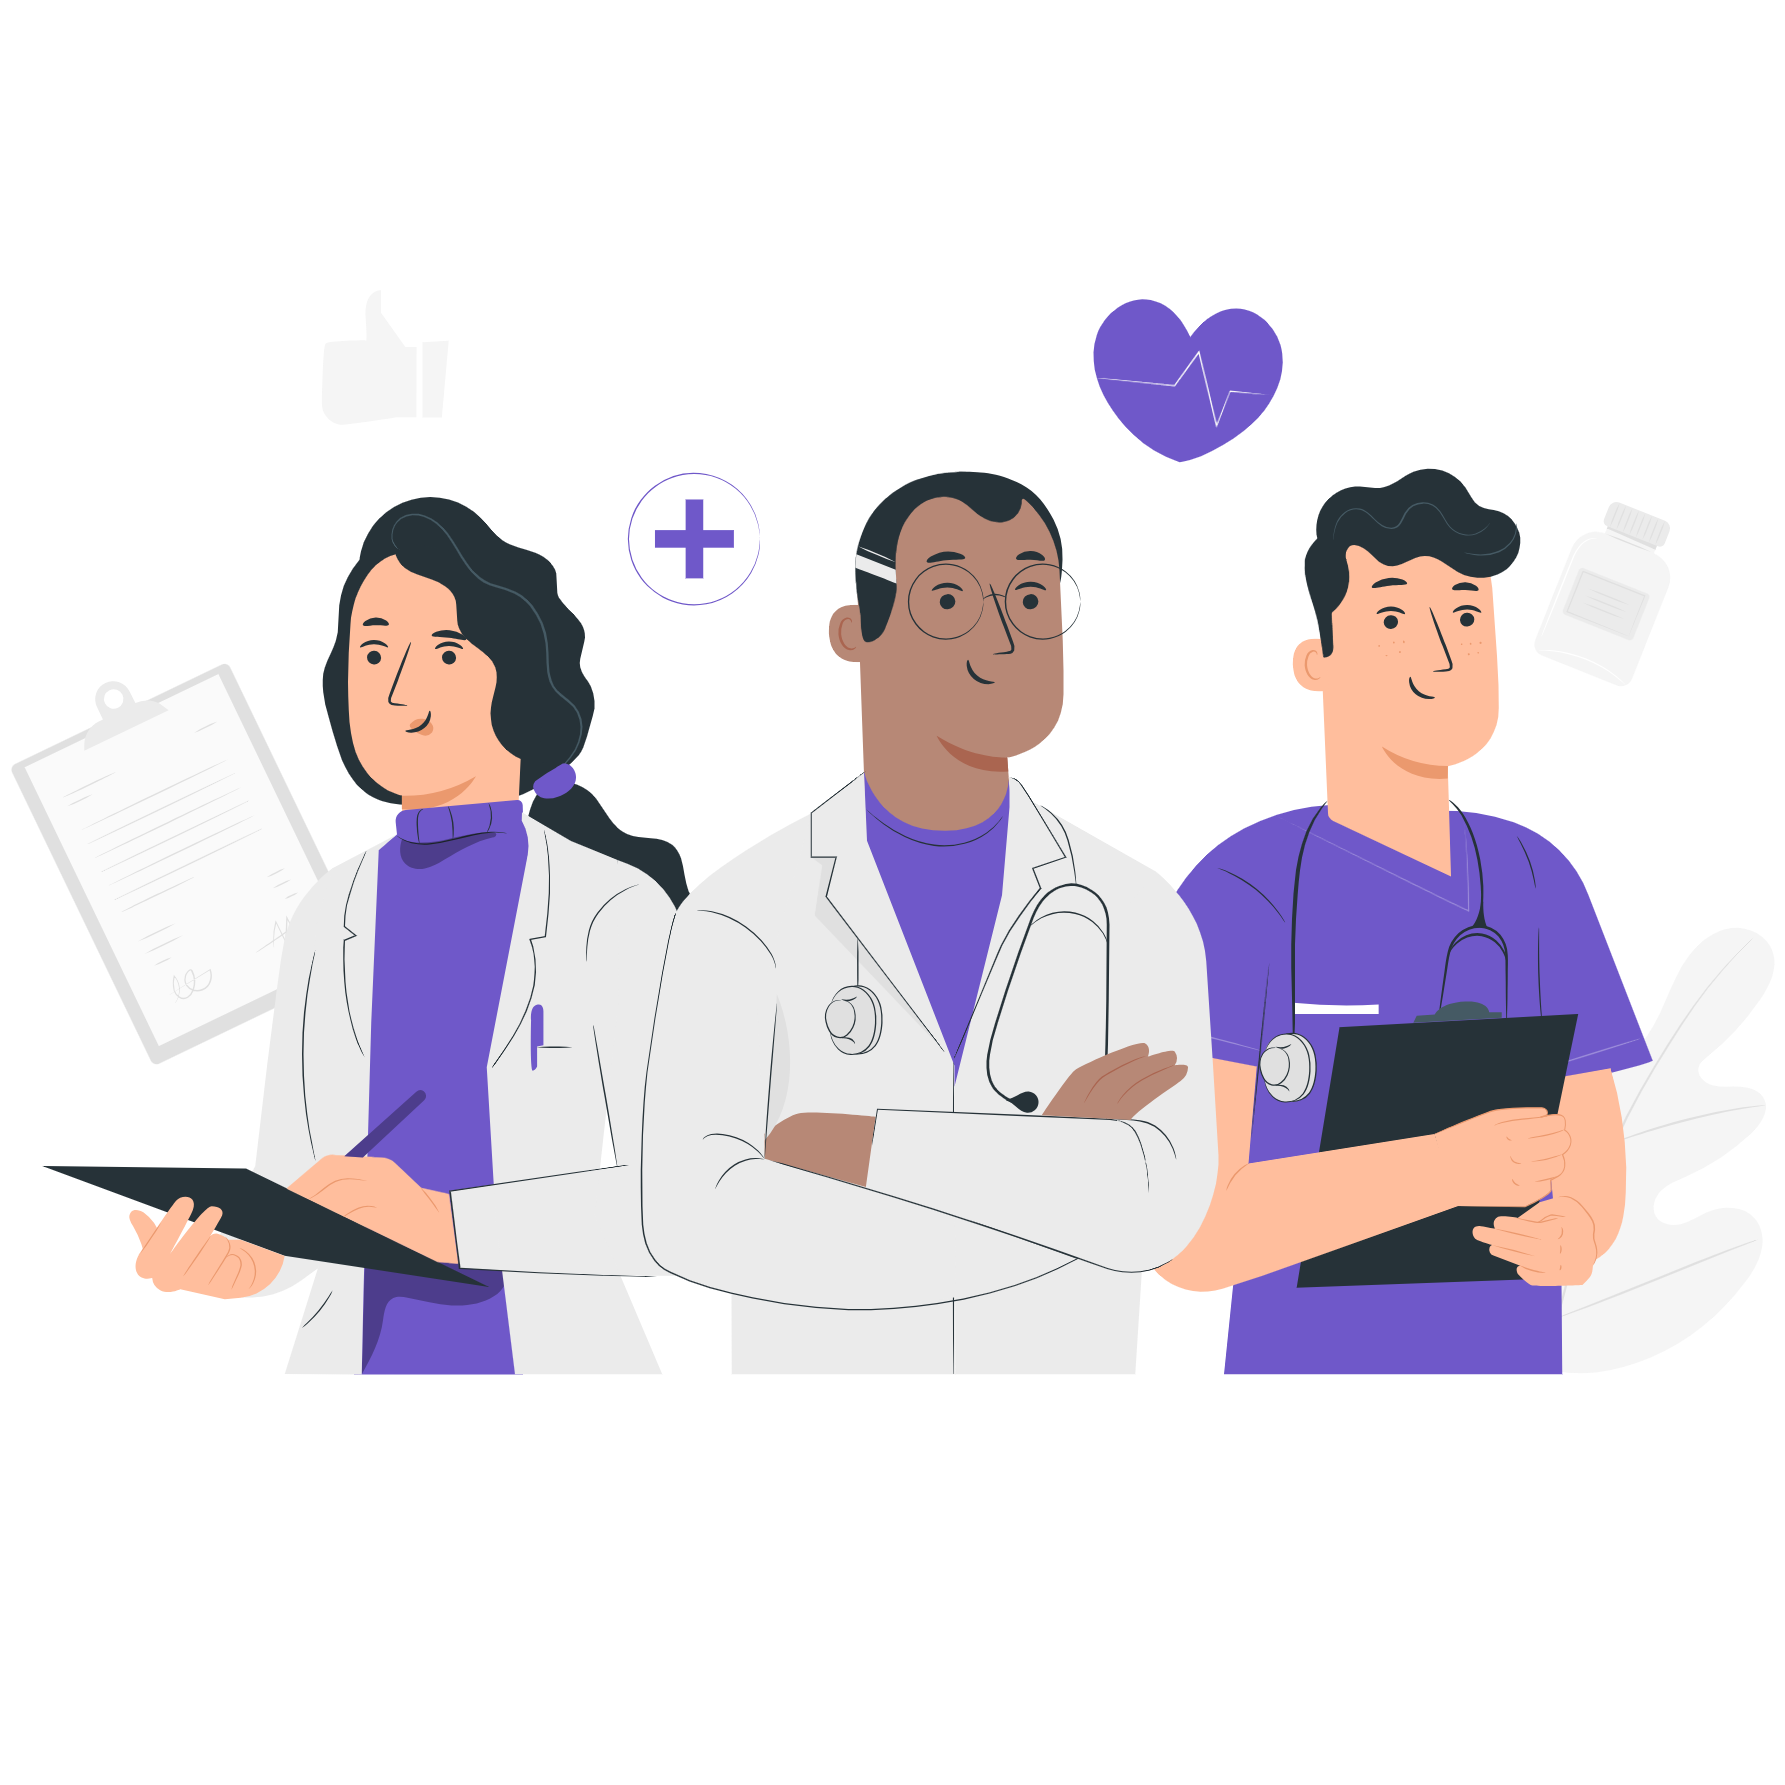
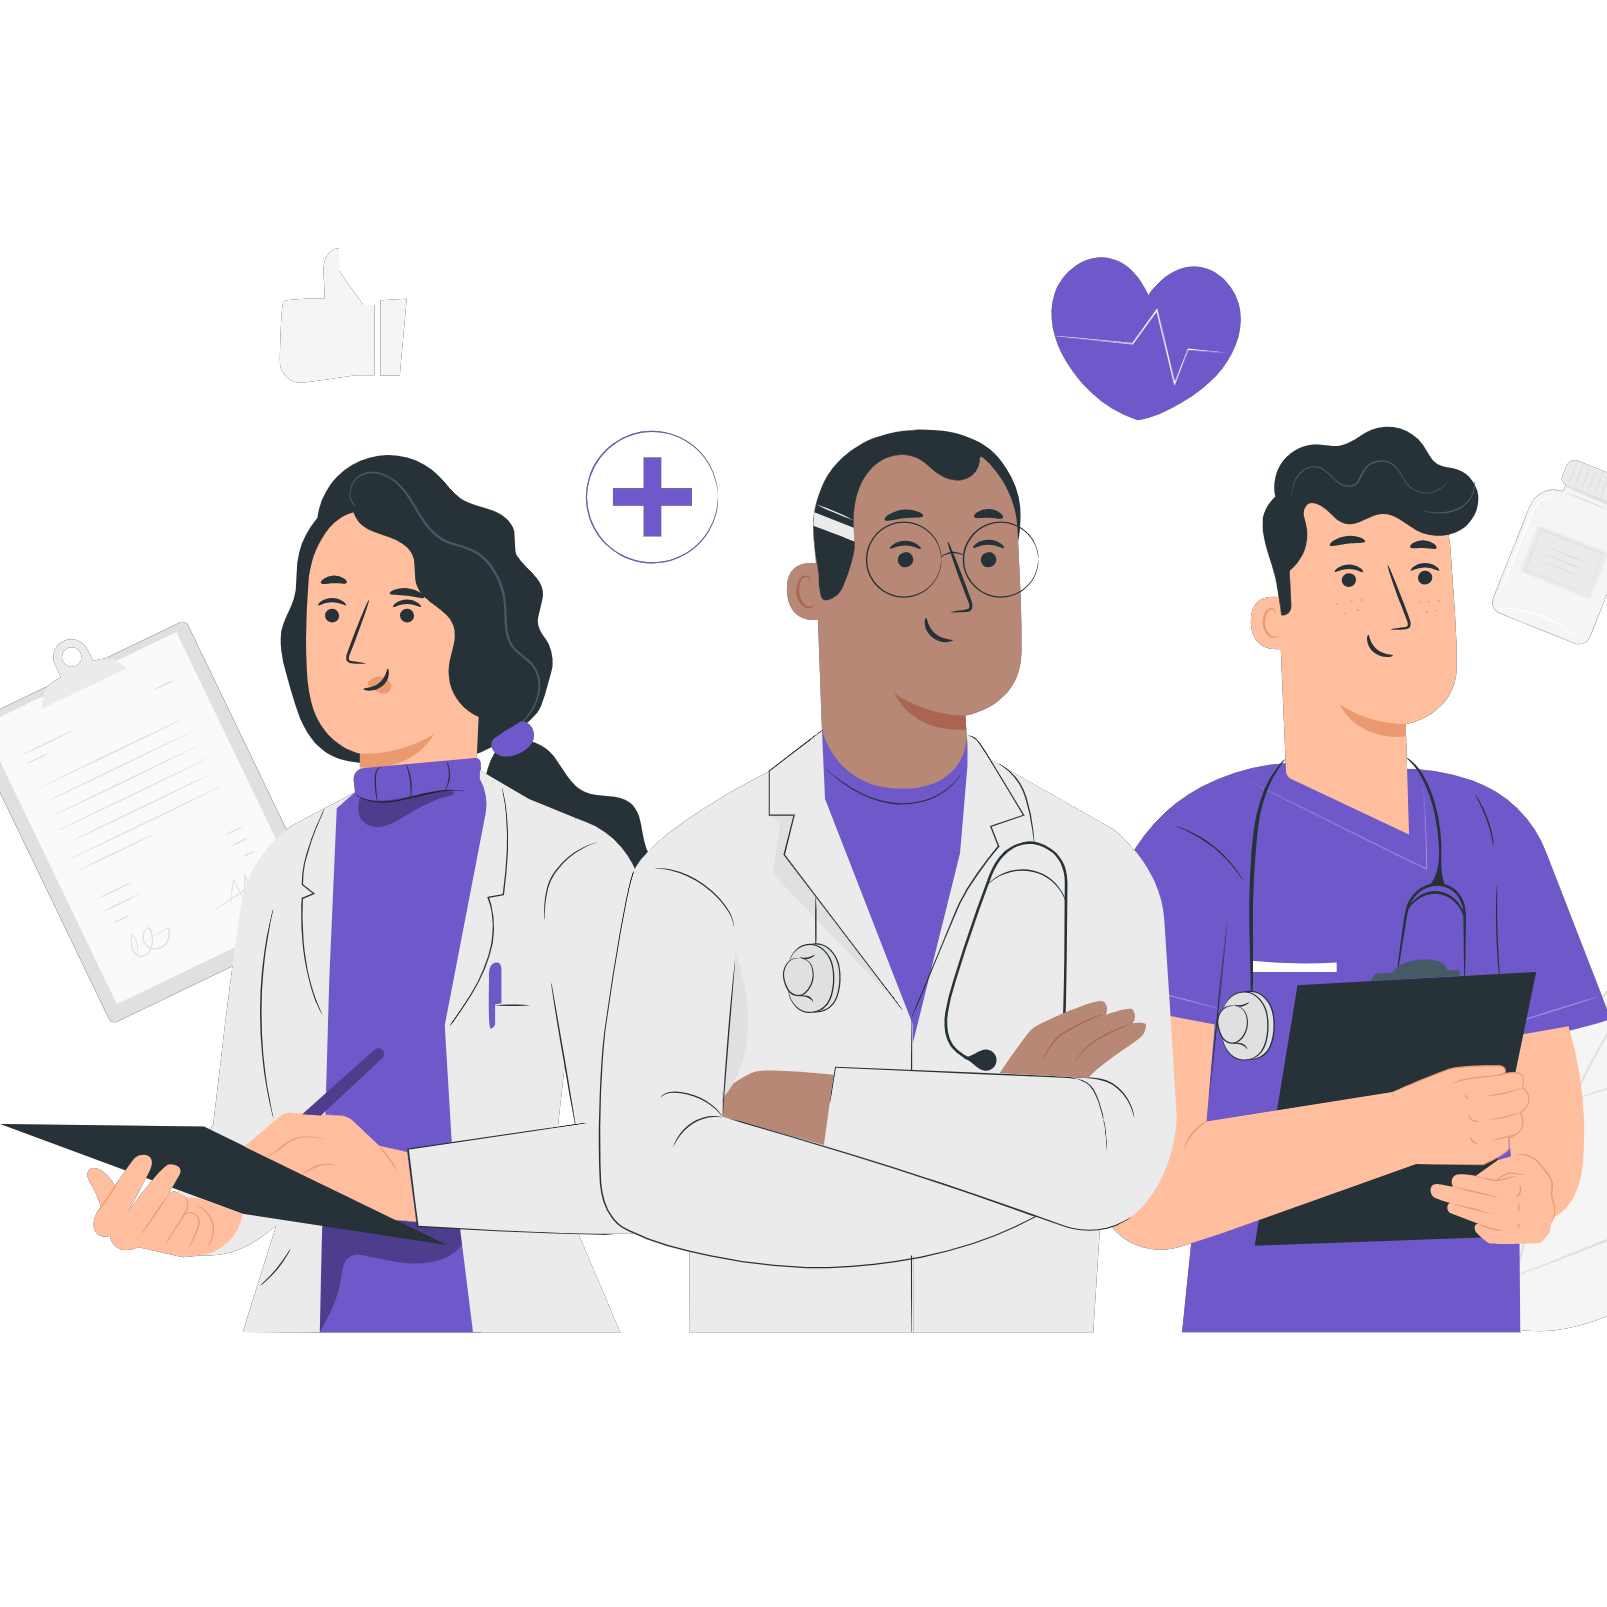
feat: home com header certo

diff --git a/resources/views/home.blade.php b/resources/views/home.blade.php
@@ -23,14 +23,12 @@
     </head>
 <body class=" bg-purple-50">
     @include('layouts.header')
-    <main class="px-20">
+    <main class="px-20 py-12">
         <section class="grid grid-cols-2 items-center pb-6">
-            <div>
-            <img class="mx-auto" src="doctorsHome.png" alt="Doutor e enfermeiros">
-            </div>
+            <img class="w-11/12 place-self-center m-0" src="doctorsHome.png" alt="Doutor e enfermeiros">
             <div class="text-left flex flex-col gap-12" >
                 <h1 class="text-6xl">Otimize sua consulta com a nossa plataforma</h1>
-                <p>Lorem ipsum dolor sit amet consectetur adipisicing elit. Corrupti hic quaerat totam ipsum veniam delectus omnis quos obcaecati, quae atque quam adipisci earum mollitia. Voluptas mollitia laudantium amet modi eius.</p>
+                <p>A aplicação do software em ambientes profissionais possibilita que haja um melhor atendimento das necessidades do paciente, promovendo consultas mais precisas e com maior acompanhamento do mesmo, evitando que dados importantes não sejam registrados.</p>
                 <div class="flex gap-10">
                     <a href="{{ route('login') }}" class="text-xl rounded-2xl px-8 py-2 w-max bg-violet-500 content-center gap-2 hover:bg-violet-600 hover:px-10 duration-200 ">Entrar <span class="align-middle material-symbols-outlined">arrow_right_alt</span></a>
                     <a href="{{ route('register') }}" class="text-xl rounded-2xl px-8 py-2 w-max bg-green-300 content-center gap-2 hover:bg-green-400 hover:px-10 duration-200">Fazer cadastro</a>
@@ -60,7 +58,7 @@
                 <br>
                 Por que usar a Medlife?
                 </h2>
-                <p class="text-justify">Lorem ipsum dolor sit amet, consectetur adipisicing elit. Debitis eveniet aperiam voluptatibus incidunt accusamus modi excepturi quos impedit ipsum? Quae nulla consequuntur incidunt cupiditate in assumenda ipsam, reprehenderit doloribus deserunt.</p>
+                <p class="text-justify">Para minimizar a demora ao recolher informações do paciente, as quais serão já disponibilizadas anteriormente à consulta, de forma que a torne mais rápida e eficiente, uma vez que o profissional terá acesso ao histórico diário de sintomas do paciente de forma precisa</p>
             </div>
             <img class="w-4/5 place-self-center" src="{{URL::asset('/icone.svg')}}" alt="">
         </section>

diff --git a/resources/views/layouts/header.blade.php b/resources/views/layouts/header.blade.php
@@ -1,4 +1,4 @@
-<nav x-data="{ open: false }" class="py-4 fixed w-full bg-transparent backdrop-blur-[2px] h-20">
+<nav x-data="{ open: false }" class="py-4 fixed w-full bg-transparent backdrop-blur-[2px] shadow-md h-24">
     <!-- Primary Navigation Menu -->
     <div class="max-w-7xl mx-auto px-4 sm:px-6 lg:px-8">
         <div class="flex justify-between h-16">
@@ -6,7 +6,7 @@
                 <!-- Logo -->
                 <div class="shrink-0 flex items-center">
                     <a href="{{ route('dashboard') }}">
-                        <img class="h-20" src="icone.svg" alt="">
+                        <img class="h-16" src="icone.svg" alt="">
                     </a>
                 </div>
 
